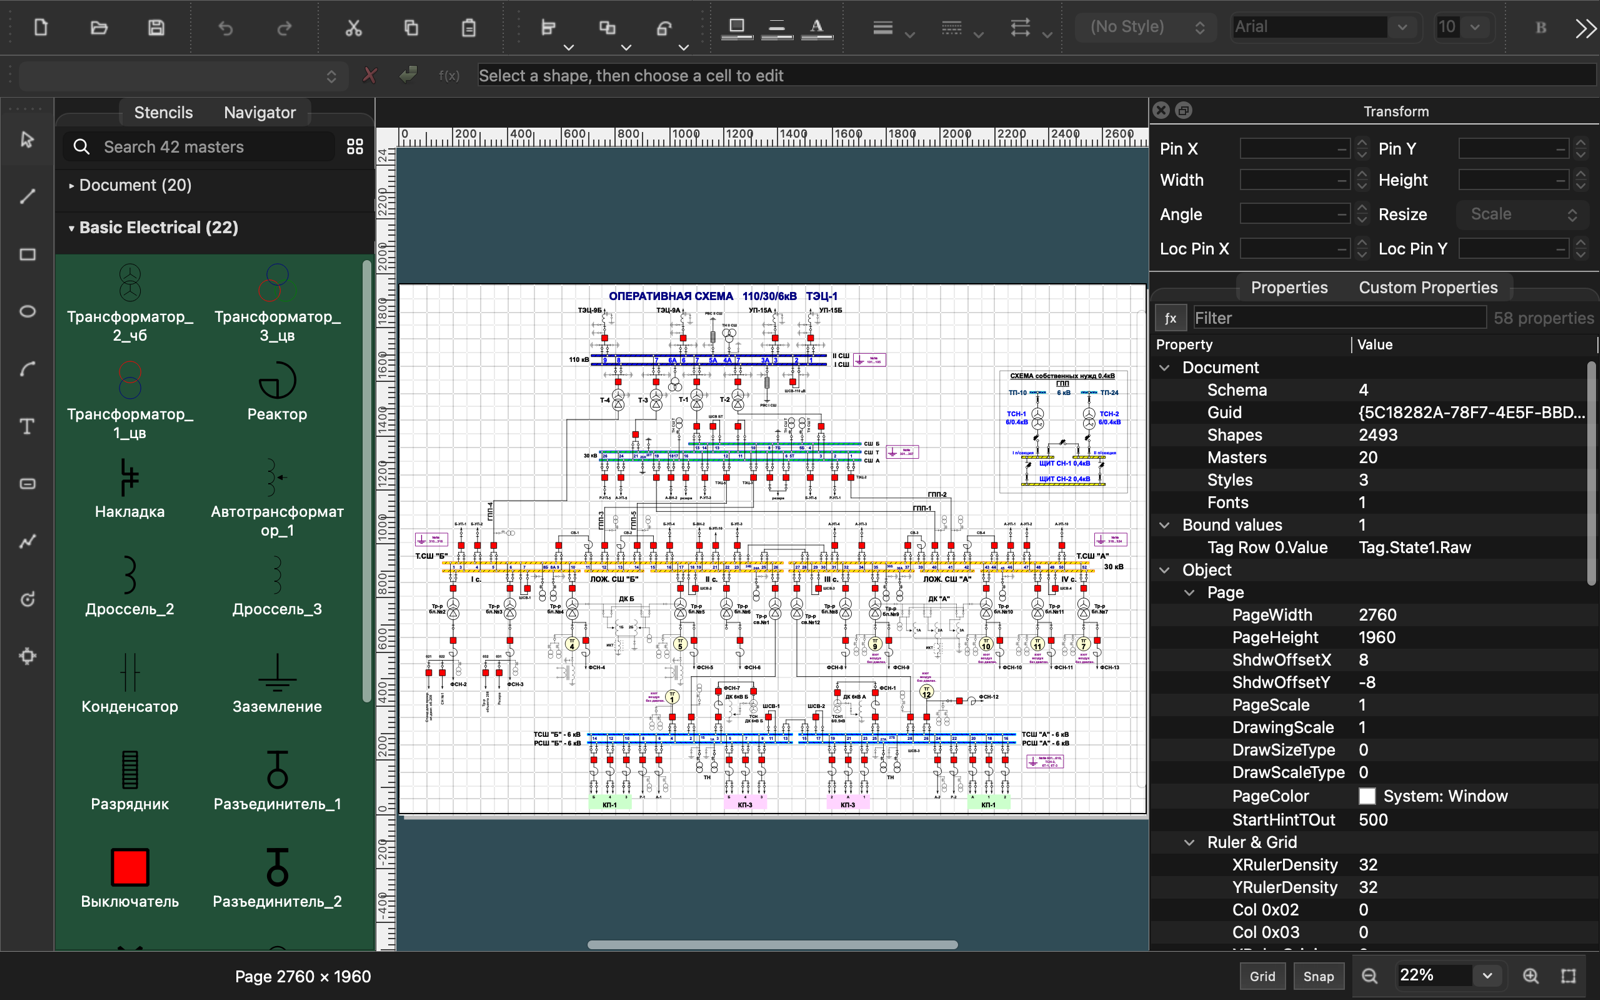
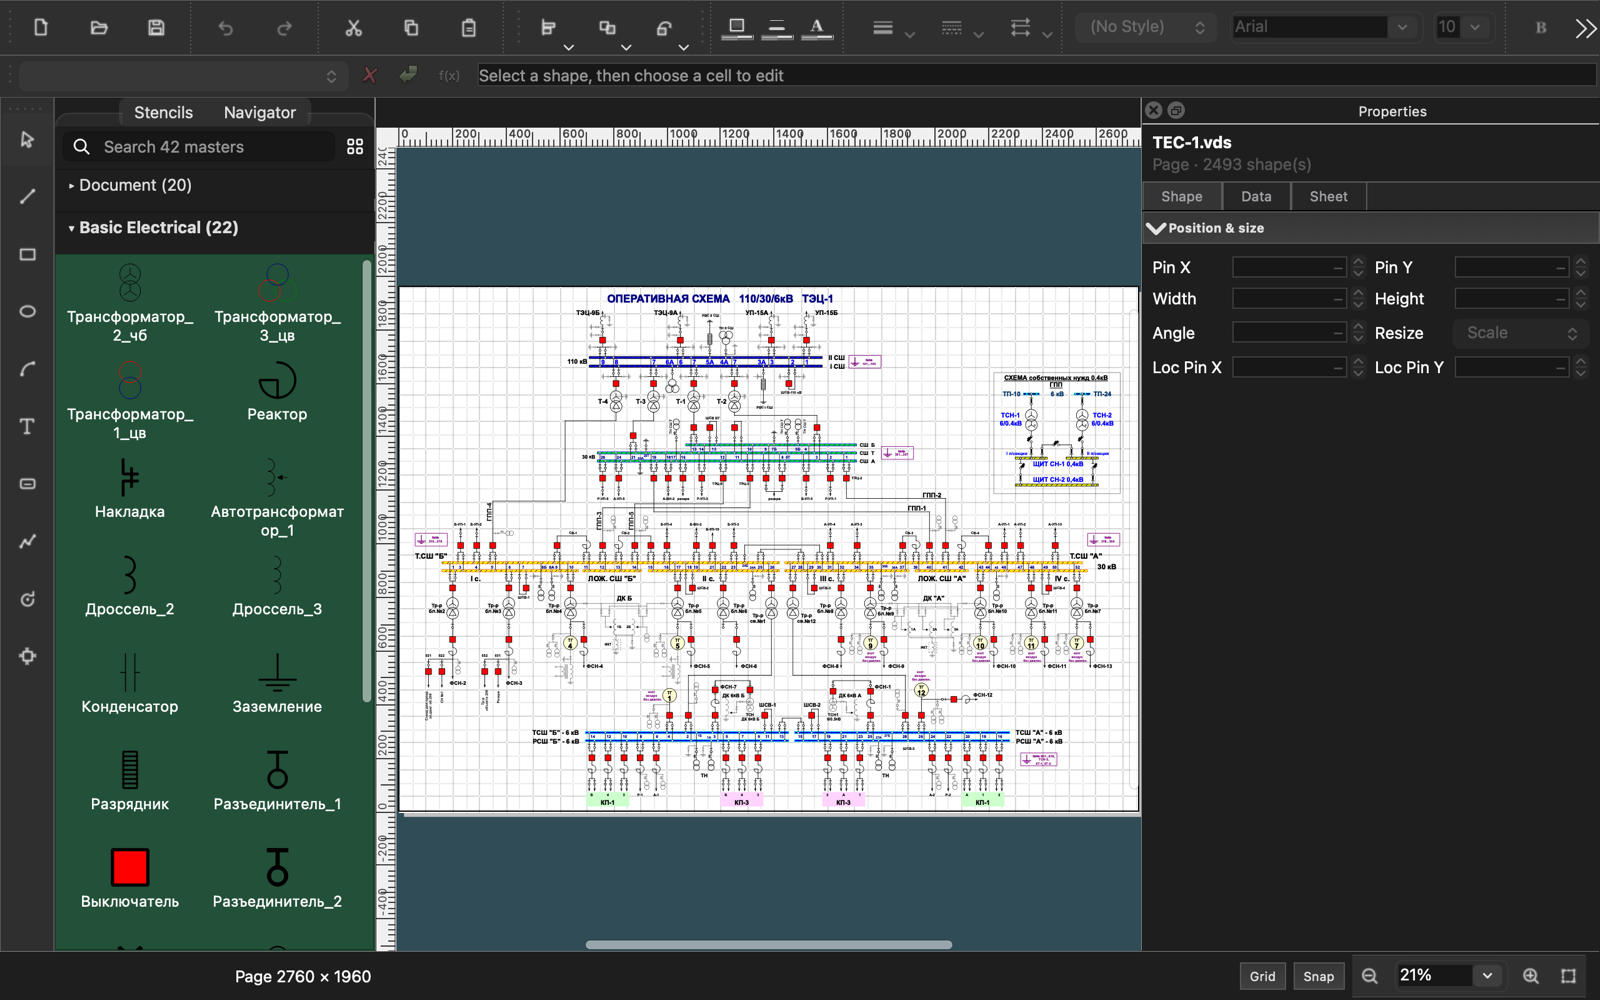
designer: the Properties dock becomes the Inspector, phase 1 (1104)
designer/docs/inspector.md, phase 1. One dock with a header naming the
selection and Shape / Data / Sheet tabs, in place of the Properties,
Transform and Custom Properties docks.

- Framework: EditorContext::RegisterInspectorSection / InspectorSections /
  ShowInspector (default no-ops, so test contexts need nothing) and
  ContextSignals::InspectorTabRequested.
- modules/inspector: InspectorDock owns the "property" dock (object name
  PropertyPanel kept) and builds its tabs from the registered sections; a
  read-only header (DescribeSelection: name, then text, master, id; group;
  N shapes; the page; "locked by its layer"); the last tab remembered
  (decision 5); folding section headings, remembered.
- PropertyPanel is a plain QWidget, the Sheet tab, unchanged inside. Its
  layer-lock notice moved from the dock title to the header.
- TransformWindow is the Shape tab's Position & size section, Custom
  Properties the Data tab's section; both docks are gone (decision 2), and
  the canvas menu's View > Transform / Custom Properties open the tab.
- Window-state version 8.
- Bound values stays on the Sheet tab for now; it moves to Data in phase 3
  beside the Tags it reads (recorded in inspector.md).

Tests: Designer 1680 pass. New: InspectorHeading x4, InspectorDock x5,
ALockedShapesCellsAreNotEditable (the lock guard had no test once the
title tests went); the dock-layout tests now pin the Inspector.
EveryToolbarFitsTheScreenshotCaptureWidth lays the window out itself: the
[…]

Changed region(s): [[0.2188, 0.093, 1.0, 0.961], [0.8438, 0.589, 0.875, 0.651], [0.875, 0.961, 0.9062, 0.992]]

diff --git a/dev/designer/properties.md b/dev/designer/properties.md
@@ -19,9 +19,27 @@ permalink: /dev/designer/properties/
 
 ## Панель «Свойства» {#property-panel}
 
-![Панель «Свойства»]({{ '/img/designer-properties.png' | relative_url }}){: width="433"}
+![Панель «Свойства», вкладка «Таблица»]({{ '/img/designer-properties.png' | relative_url }}){: width="433"}
 
-Панель показывает ячейки выделенной фигуры. Если ничего не выделено — ячейки
+Сверху панель называет выделенное: имя фигуры (или ее текст, или трафарет)
+и что это — фигура, группа, экземпляр трафарета; если выделено несколько
+фигур — их число, если ничего — страницу. Если фигура лежит на
+заблокированном слое, это сказано там же: поэтому значения и не меняются.
+
+Ниже три вкладки:
+
+| Вкладка | Что на ней |
+|---|---|
+| *Фигура* | [положение и размер](#transform) |
+| *Данные* | [пользовательские свойства](#custom-properties) |
+| *Таблица* | все ячейки фигуры — описана ниже |
+
+Разделы на вкладке сворачиваются щелчком по заголовку. Открывается та
+вкладка, с которой работали в последний раз.
+
+### Таблица {#sheet}
+
+Вкладка показывает ячейки выделенной фигуры. Если ничего не выделено — ячейки
 документа (ширина, высота и цвет страницы, слои и другие), а на вкладке
 трафарета — ячейки этого трафарета. Сверху раздел *Сведения*: номер, тип,
 имя, трафарет, стиль фигуры.
@@ -36,8 +54,8 @@ permalink: /dev/designer/properties/
 - Ячейки с выбором из списка — тип линии, стрелки, заливка, выравнивание
   текста, режим изменения размера — показаны названием значения, например
   `Сплошная`, а не числом из файла; при правке открывается список.
-- Строка *XForm* свернута: те же значения стоят на панели «Преобразование»
-  над ней.
+- Строка *XForm* свернута: те же значения — в разделе «Положение и размер»
+  на вкладке *Фигура*.
 - Строки геометрии называются `Row 1 - MoveTo`, `Row 2 - LineTo` и т. п.;
   строка `Component` хранит флаги вроде `NoFill` и `NoShow`.
 - Значение можно править прямо в таблице (двойной щелчок по значению).
@@ -140,11 +158,11 @@ permalink: /dev/designer/properties/
 `Replace(s, что, чем)`, `IntToStr(n)`, `StrToInt(s)` и `StrToFloat(s)` (0 при
 ошибке), `Format(шаблон, …)` в стиле printf (`%d`, `%f`, `%e`, `%g`, `%s`).
 
-## Панель «Преобразование» {#transform}
+## Положение и размер {#transform}
 
-![Панель «Преобразование»]({{ '/img/designer-transform.png' | relative_url }}){: width="433"}
+![Вкладка «Фигура», раздел «Положение и размер»]({{ '/img/designer-transform.png' | relative_url }}){: width="433"}
 
-Задает геометрию выделенной фигуры числами, когда маркеров недостаточно.
+Раздел на вкладке *Фигура* панели «Свойства». Задает геометрию выделенной фигуры числами, когда маркеров недостаточно.
 
 | Поле | Что задает |
 |---|---|
@@ -156,14 +174,13 @@ permalink: /dev/designer/properties/
 
 Введите значение и нажмите `Enter` или пользуйтесь стрелками поля. Каждое
 изменение — один шаг отмены. Поля доступны, только когда выделена ровно одна
-фигура; иначе они пусты. Панель стоит над панелью «Свойства»; разделитель
-между ними можно двигать, а при узкой панели поля выстраиваются в один
-столбец. Те же значения в таблице свойств (*Object — XForm*) можно задать
+фигура; иначе они пусты. При узкой панели поля выстраиваются в один столбец.
+Те же значения в таблице свойств (*Object — XForm*) можно задать
 формулами.
 
-## Панель «Пользовательские свойства» {#custom-properties}
+## Пользовательские свойства {#custom-properties}
 
-Показывает видимые строки раздела *Prop* выделенной фигуры:
+Раздел на вкладке *Данные* панели «Свойства». Показывает видимые строки раздела *Prop* выделенной фигуры:
 
 | Столбец | Назначение |
 |---|---|

diff --git a/en/dev/designer/properties.md b/en/dev/designer/properties.md
@@ -19,9 +19,28 @@ and to tags.
 
 ## The Properties panel {#property-panel}
 
-![The Properties panel]({{ '/img/designer-properties-en.png' | relative_url }}){: width="360"}
+![The Properties panel on its Sheet tab]({{ '/img/designer-properties-en.png' | relative_url }}){: width="360"}
 
-The panel shows the cells of the selected shape. With nothing selected it
+At the top the panel names the selection: the shape's name (or its text, or
+its master) and what it is — a shape, a group, an instance of a master; with
+several shapes selected, how many; with nothing selected, the page. A shape
+on a locked layer says so there too, which is why its values will not
+change.
+
+Below are three tabs:
+
+| Tab | What it holds |
+|---|---|
+| *Shape* | [position and size](#transform) |
+| *Data* | [custom properties](#custom-properties) |
+| *Sheet* | every cell of the shape — described below |
+
+A section on a tab folds when you click its heading. The tab you used last
+opens next time.
+
+### Sheet {#sheet}
+
+The tab shows the cells of the selected shape. With nothing selected it
 shows the document's cells (page width, height and colour, layers and
 others), and in a master's tab that master's cells. At the top, *Info* gives
 the shape's ID, type, name, master and style.
@@ -35,8 +54,8 @@ the shape's ID, type, name, master and style.
 - Cells that hold a choice — line pattern, arrowheads, fill pattern, text
   alignment, resize mode — show the value's name, e.g. `Solid`, not the
   number the file stores; editing one opens a list.
-- The *XForm* row starts folded: the same values are on the Transform panel
-  above.
+- The *XForm* row starts folded: the same values are in *Position and size*
+  on the *Shape* tab.
 - Geometry rows are named `Row 1 - MoveTo`, `Row 2 - LineTo` and so on; the
   `Component` row holds flags such as `NoFill` and `NoShow`.
 - A value can be edited right in the table (double-click it).
@@ -139,11 +158,11 @@ found), `Replace(s, old, new)`, `IntToStr(n)`, `StrToInt(s)` and
 `StrToFloat(s)` (0 on error), `Format(fmt, …)` in printf style (`%d`, `%f`,
 `%e`, `%g`, `%s`).
 
-## The Transform panel {#transform}
+## Position and size {#transform}
 
-![The Transform panel]({{ '/img/designer-transform-en.png' | relative_url }}){: width="360"}
+![The Shape tab's Position and size section]({{ '/img/designer-transform-en.png' | relative_url }}){: width="360"}
 
-Sets the selected shape's geometry as numbers, when handles are not precise
+A section on the Properties panel's *Shape* tab. Sets the selected shape's geometry as numbers, when handles are not precise
 enough.
 
 | Field | What it sets |
@@ -156,14 +175,13 @@ enough.
 
 Type a value and press `Enter`, or use the field's arrows. Every change is one
 undo step. The fields are enabled only when exactly one shape is selected;
-otherwise they are blank. The panel sits above the Properties panel; the
-divider between them can be dragged, and in a narrow panel the fields fall
-into one column. The same values in the property table (*Object — XForm*) can
+otherwise they are blank. In a narrow panel the fields fall into one column.
+The same values in the property table (*Object — XForm*) can
 be set by formulas.
 
-## The Custom Properties panel {#custom-properties}
+## Custom properties {#custom-properties}
 
-Shows the visible rows of the selected shape's *Prop* section:
+A section on the Properties panel's *Data* tab. Shows the visible rows of the selected shape's *Prop* section:
 
 | Column | Purpose |
 |---|---|

diff --git a/dev/designer.md b/dev/designer.md
@@ -27,7 +27,7 @@ permalink: /dev/designer/
 - [Трафареты]({{ '/dev/designer/stencils/' | relative_url }}) — символы,
   создание и правка трафаретов, библиотеки *vdc*;
 - [Свойства и формулы]({{ '/dev/designer/properties/' | relative_url }}) —
-  панели «Свойства», «Преобразование», «Пользовательские свойства», строка
+  панель «Свойства» с вкладками «Фигура», «Данные» и «Таблица», строка
   формул и справочник функций;
 - [Линейки, сетка и вид]({{ '/dev/designer/view/' | relative_url }}) —
   масштаб, прокрутка, линейки, направляющие, сетка и привязка.
@@ -58,8 +58,8 @@ permalink: /dev/designer/
 ![Панель «Стандартная»]({{ '/img/designer-toolbar-standard.png' | relative_url }}){: width="407"}
 
 Слева — вертикальная панель *Инструменты* с инструментами рисования и
-панели *Трафареты* и *Навигатор*. Справа — панель *Преобразование* и под ней
-*Свойства* и *Пользовательские свойства*. Панели, сложенные вкладками,
+панели *Трафареты* и *Навигатор*. Справа — панель *Свойства* с вкладками
+*Фигура*, *Данные* и *Таблица*. Панели, сложенные вкладками,
 переключаются вкладками над ними; закрыть или снова открыть любую панель,
 строку формул или панель инструментов можно в меню *Вид*. Панели и панели
 инструментов можно перетаскивать к другому краю окна; их расположение

diff --git a/en/dev/designer.md b/en/dev/designer.md
@@ -27,7 +27,7 @@ The pages of this section cover the work in detail:
 - [Stencils]({{ '/en/dev/designer/stencils/' | relative_url }}) — symbols,
   creating and editing masters, *vdc* libraries;
 - [Properties and formulas]({{ '/en/dev/designer/properties/' | relative_url }})
-  — the Properties, Transform and Custom Properties panels, the Formula bar
+  — the Properties panel with its Shape, Data and Sheet tabs, the Formula bar
   and the function reference;
 - [Rulers, grid and view]({{ '/en/dev/designer/view/' | relative_url }}) —
   zoom, scrolling, rulers, guides, grid and snapping.
@@ -58,8 +58,8 @@ From top to bottom:
 ![The Standard toolbar]({{ '/img/designer-toolbar-standard-en.png' | relative_url }}){: width="407"}
 
 On the left are the vertical *Tools* bar with the drawing tools, and the
-*Stencils* and *Navigator* panels. On the right is the *Transform* panel with
-*Properties* and *Custom Properties* below it. Panels stacked as tabs switch
+*Stencils* and *Navigator* panels. On the right is the *Properties* panel
+with its *Shape*, *Data* and *Sheet* tabs. Panels stacked as tabs switch
 by the tabs above them; any panel, the Formula bar or a toolbar can be closed
 or reopened from the *View* menu. Panels and toolbars can be dragged to
 another edge of the window; where you put them is remembered.

diff --git a/dev/designer/drawing.md b/dev/designer/drawing.md
@@ -99,8 +99,9 @@ permalink: /dev/designer/drawing/
 - Тяните угловой или боковой маркер, чтобы изменить размер; с `Shift` —
   сохраняя пропорции.
 
-Точные значения положения, размера и угла задаются на панели
-[«Преобразование»]({{ '/dev/designer/properties/' | relative_url }}#transform).
+Точные значения положения, размера и угла задаются в разделе
+[«Положение и размер»]({{ '/dev/designer/properties/' | relative_url }}#transform)
+панели «Свойства».
 
 ### Сдвиг стрелками {#nudging}
 

diff --git a/en/dev/designer/drawing.md b/en/dev/designer/drawing.md
@@ -95,8 +95,9 @@ drag.
   (`Ctrl+D`) puts a copy next to the original.
 - Drag a corner or side handle to resize; with `Shift` to keep proportions.
 
-Exact position, size and angle are set on the
-[Transform panel]({{ '/en/dev/designer/properties/' | relative_url }}#transform).
+Exact position, size and angle are set in
+[Position and size]({{ '/en/dev/designer/properties/' | relative_url }}#transform)
+on the Properties panel.
 
 ### Moving with the arrow keys {#nudging}
 
